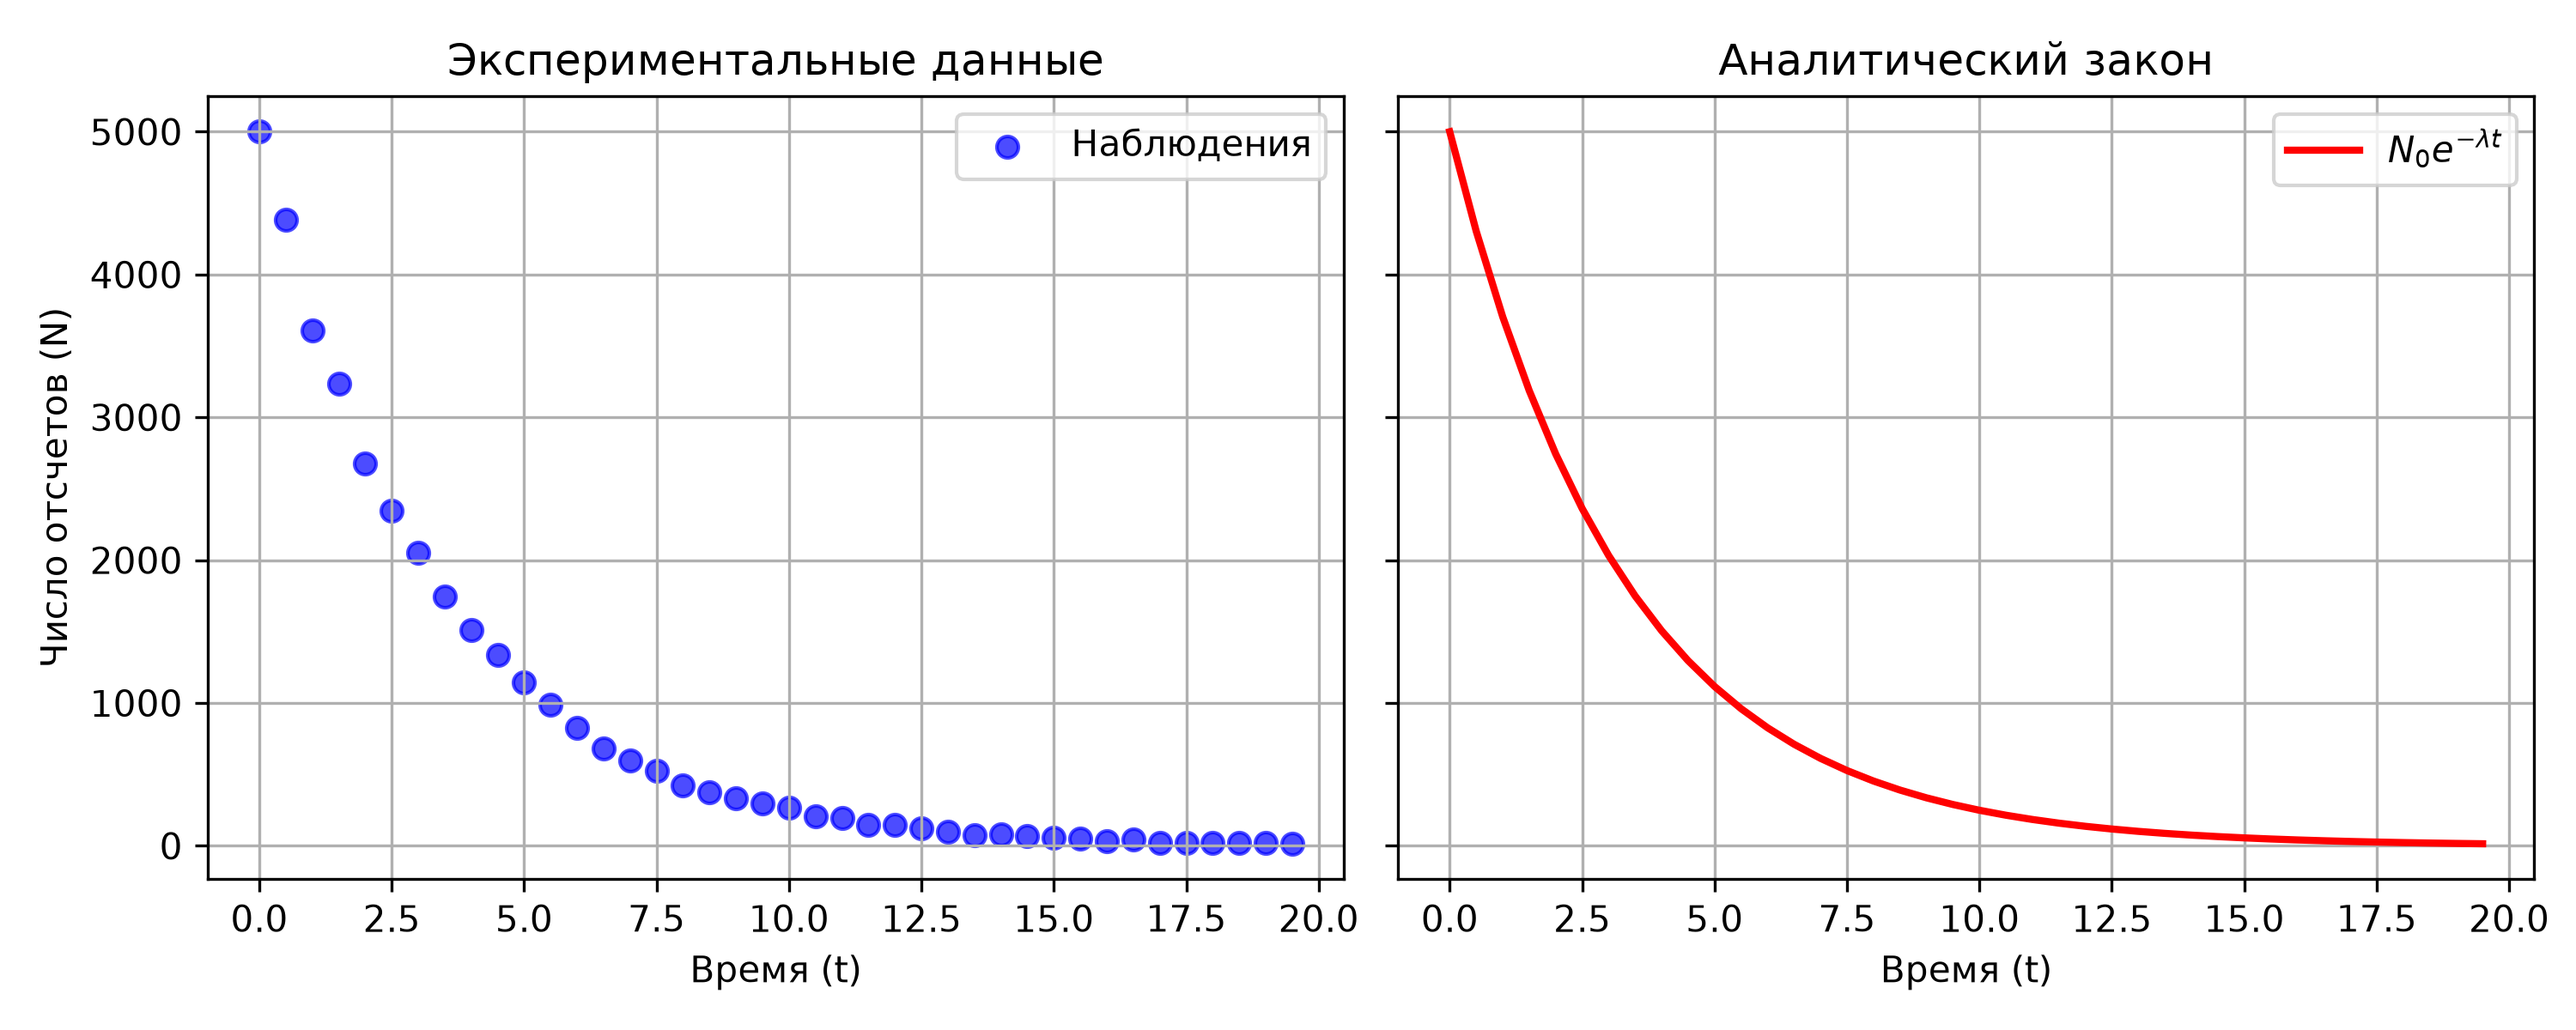
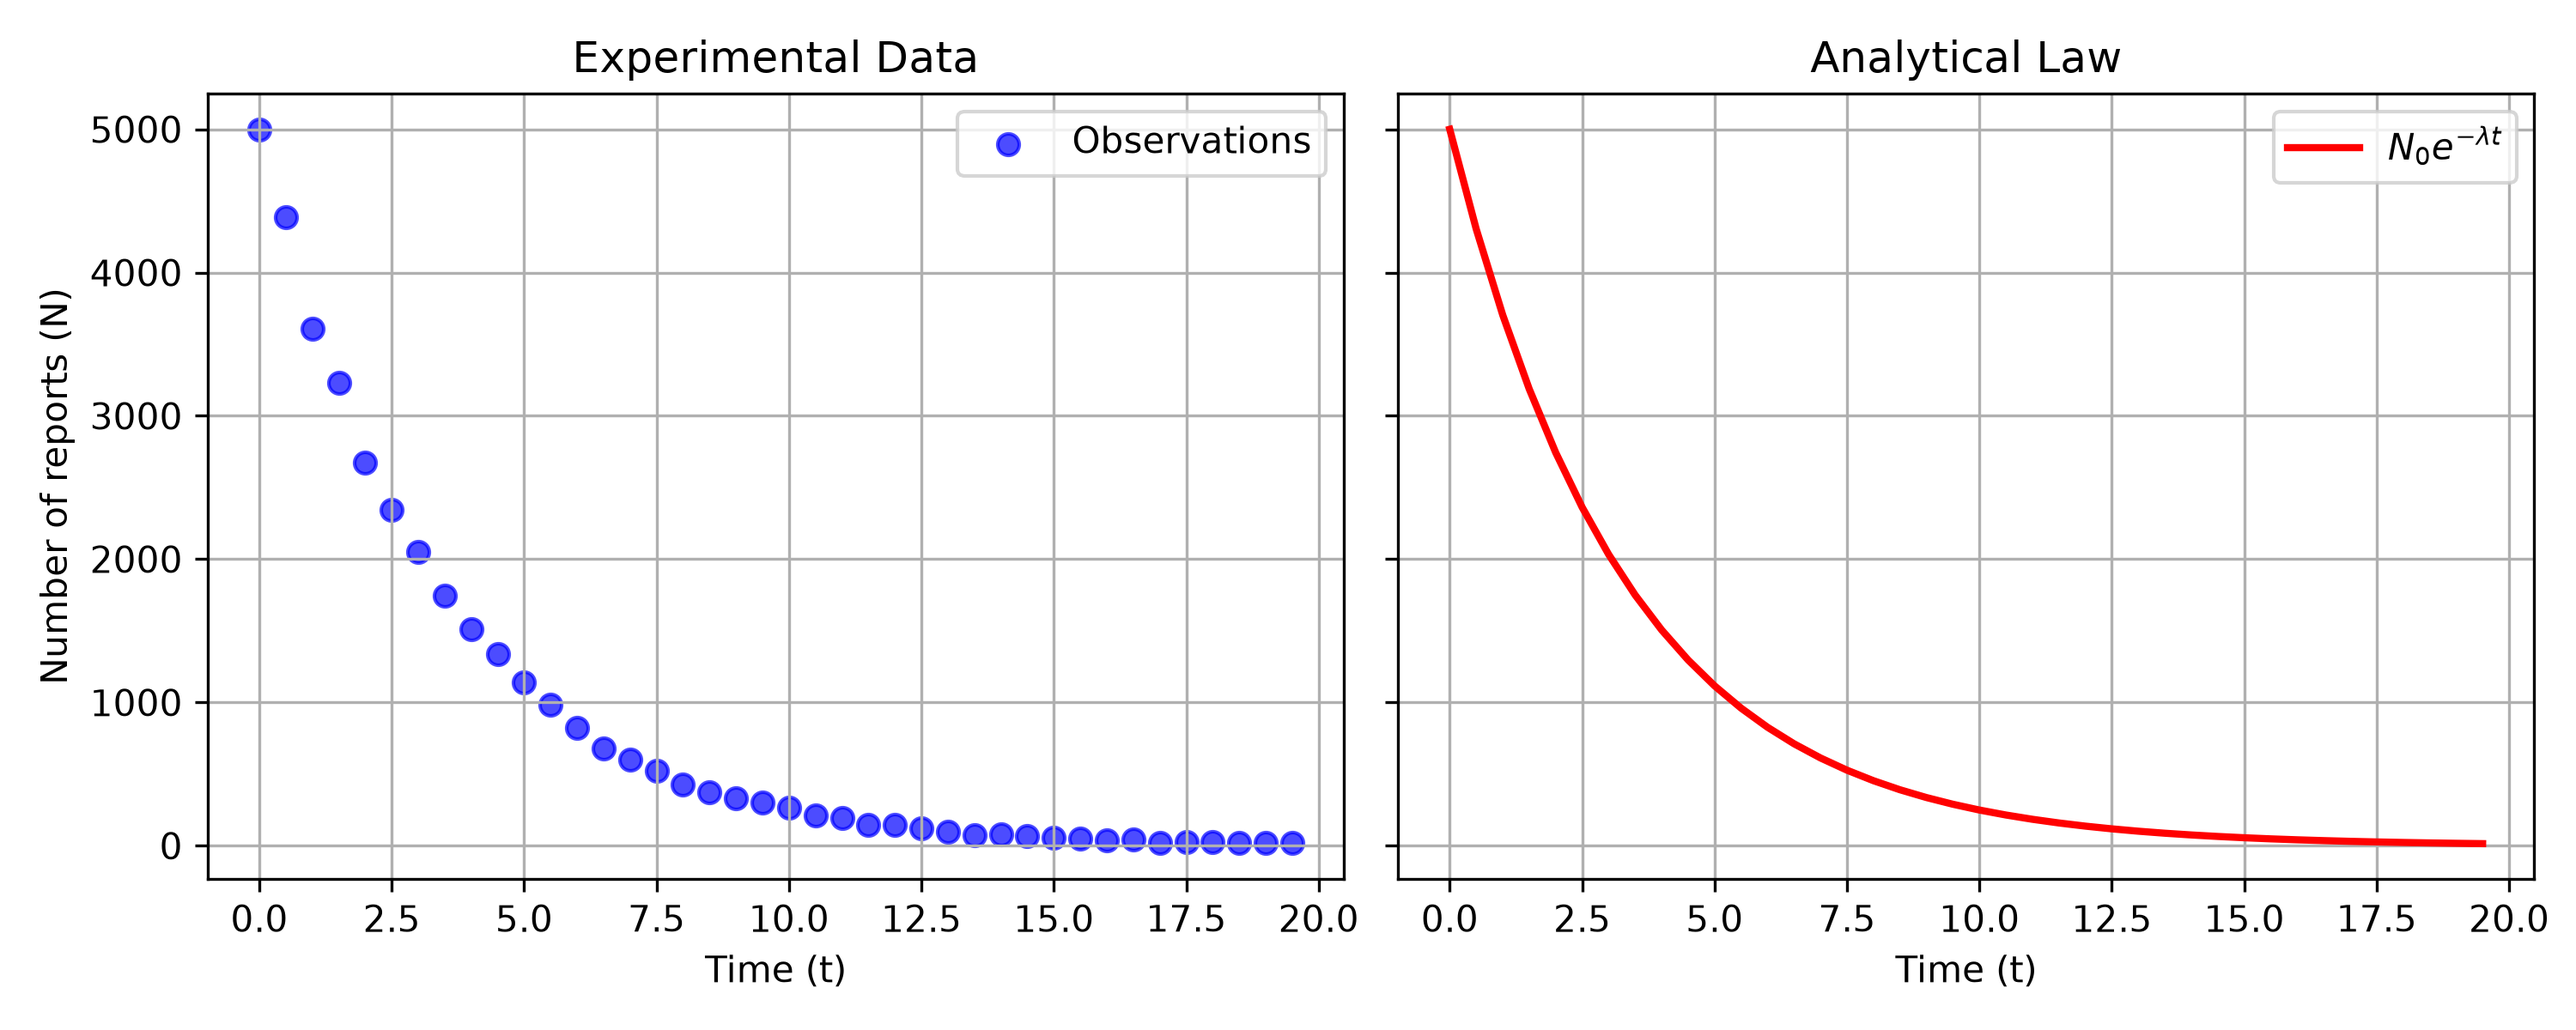
Add Session A implementation and README report

diff --git a/PW2/Lab A/analysis.py b/PW2/Lab A/analysis.py
@@ -12,33 +12,33 @@ a = np.gradient(v, t)
 mean_a = np.mean(a)
 std_a = np.std(a)
 
-print(f"Среднее ускорение: {mean_a:.2f} м/с^2")
-print(f"Стандартное отклонение ускорения: {std_a:.2f} м/с^2")
+print(f"Average acceleration: {mean_a:.2f} м/с^2")
+print(f"Standard deviation of acceleration: {std_a:.2f} м/с^2")
 
 v_rec = cumulative_trapezoid(a, t, initial=0) + v[0]
 
 y_rec = cumulative_trapezoid(v_rec, t, initial=0) + y[0]
 
 max_diff = np.max(np.abs(y - y_rec))
-print(f"Максимальная разница между исходной и восстановленной координатой: {max_diff:.4f} м")
+print(f"Maximal difference between initial and restored coordinate: {max_diff:.4f} м")
 
 fig, (ax1, ax2, ax3) = plt.subplots(3, 1, figsize=(8, 10), sharex=True)
 
-ax1.plot(t, y, label='Измеренная высота (y)', color='blue')
-ax1.set_ylabel('Высота y (м)')
-ax1.set_title('Анализ движения свободно падающего тела')
+ax1.plot(t, y, label='Measured height (y)', color='blue')
+ax1.set_ylabel('Height y (m)')
+ax1.set_title('Analysis of free falling body motion')
 ax1.grid(True)
 ax1.legend()
 
-ax2.plot(t, v, label='Скорость (v)', color='orange')
-ax2.set_ylabel('Скорость v (м/с)')
+ax2.plot(t, v, label='Speed (v)', color='orange')
+ax2.set_ylabel('Speed v (m/s)')
 ax2.grid(True)
 ax2.legend()
 
-ax3.plot(t, a, label='Вычисленное ускорение (a)', color='red', alpha=0.6)
-ax3.axhline(-9.81, color='black', linestyle='--', label='Теоретическое g (-9.81 м/с²)')
-ax3.set_xlabel('Время t (с)')
-ax3.set_ylabel('Ускорение a (м/с²)')
+ax3.plot(t, a, label='Calculated acceleration (a)', color='red', alpha=0.6)
+ax3.axhline(-9.81, color='black', linestyle='--', label='Theoretical g (-9.81 m/s²)')
+ax3.set_xlabel('Time t (s)')
+ax3.set_ylabel('Acceleration a (m/s²)')
 ax3.grid(True)
 ax3.legend()
 
@@ -59,19 +59,19 @@ try:
     fig_2d, (ax_traj, ax_speed) = plt.subplots(1, 2, figsize=(12, 5))
 
     ax_traj.plot(x_2d, y_2d, 'g.-')
-    ax_traj.set_title('2D Траектория (x vs y)')
+    ax_traj.set_title('2D Trajectory (x vs y)')
     ax_traj.set_xlabel('x (м)')
     ax_traj.set_ylabel('y (м)')
     ax_traj.grid(True)
 
     ax_speed.plot(t_2d, speed, 'm-')
-    ax_speed.set_title('Полная скорость со временем')
-    ax_speed.set_xlabel('Время t (с)')
-    ax_speed.set_ylabel('Скорость (м/с)')
+    ax_speed.set_title('Full speed with time')
+    ax_speed.set_xlabel('Time t (s)')
+    ax_speed.set_ylabel('Speed (m/s)')
     ax_speed.grid(True)
 
     plt.tight_layout()
     plt.savefig('trajectory_analysis.png')
     plt.show()
 except Exception as e:
-    print(f"Бонусное задание не выполнено или файл trajectory.csv не найден: {e}")
+    print(f"Bonus task isn't completed or file trajectory.csv isn't found: {e}")

diff --git a/PW3/script.py b/PW3/script.py
@@ -1,0 +1,105 @@
+import pandas as pd
+import numpy as np
+import matplotlib.pyplot as plt
+from scipy import stats
+
+print("--- SESSION 1 ---")
+
+df = pd.read_csv("heart.csv")
+print("Dataset shape:", df.shape)
+print(df.head())
+
+plt.figure(figsize=(10, 8))
+
+plt.subplot(2, 2, 1)
+plt.hist(df['age'])
+plt.title('age')
+
+plt.subplot(2, 2, 2)
+plt.hist(df['chol'])
+plt.title('chol')
+
+plt.subplot(2, 2, 3)
+plt.hist(df['trestbps'])
+plt.title('trestbps')
+
+plt.subplot(2, 2, 4)
+plt.hist(df['thalach'])
+plt.title('thalach')
+
+plt.tight_layout()
+plt.savefig("distributions.png")
+plt.show()
+
+for col in ['age', 'chol', 'trestbps', 'thalach']:
+    res = stats.shapiro(df[col])
+    print(col, "p-value:", res.pvalue)
+    if res.pvalue > 0.05:
+        print(col, "looks normal")
+    else:
+        print(col, "is NOT normal")
+
+
+print("\n--- SESSION 2 ---")
+
+group_sick = df[df['target'] == 1]['thalach']
+group_healthy = df[df['target'] == 0]['thalach']
+
+ttest_res = stats.mannwhitneyu(group_sick, group_healthy)
+print("Mann-Whitney test p-value:", ttest_res.pvalue)
+
+mean_sick = group_sick.mean()
+mean_healthy = group_healthy.mean()
+
+sem_sick = group_sick.std() / np.sqrt(len(group_sick))
+sem_healthy = group_healthy.std() / np.sqrt(len(group_healthy))
+
+print("Sick group thalach:", mean_sick, "+-", sem_sick)
+print("Healthy group thalach:", mean_healthy, "+-", sem_healthy)
+
+plt.figure()
+plt.errorbar(['Healthy (0)', 'Sick (1)'], [mean_healthy, mean_sick], yerr=[sem_healthy*2, sem_sick*2], fmt='o')
+plt.title("Comparison of thalach")
+plt.ylabel("thalach")
+plt.savefig("thalach_comparison.png")
+plt.show()
+
+corr, pval = stats.pearsonr(df['age'], df['thalach'])
+print("Correlation age vs thalach:", corr, "p-value:", pval)
+
+plt.figure()
+plt.scatter(df['age'], df['thalach'])
+plt.xlabel("age")
+plt.ylabel("thalach")
+plt.title("Age vs Thalach")
+plt.savefig("age_vs_thalach.png")
+plt.show()
+
+
+print("\n--- DATASET 2 ---")
+
+df2 = pd.read_csv("chemicals_cancer.csv")
+
+corr_b, _ = stats.pearsonr(df2['benzene'], df2['malignancy'])
+corr_c, _ = stats.pearsonr(df2['cadmium'], df2['malignancy'])
+
+print("Benzene vs Malignancy corr:", corr_b)
+print("Cadmium vs Malignancy corr:", corr_c)
+
+filtered_df = df2[(df2['pollution_index'] > 40) & (df2['pollution_index'] < 60)]
+
+corr_b_filt, _ = stats.pearsonr(filtered_df['benzene'], filtered_df['malignancy'])
+corr_c_filt, _ = stats.pearsonr(filtered_df['cadmium'], filtered_df['malignancy'])
+
+print("AFTER FILTERING:")
+print("Benzene vs Malignancy corr:", corr_b_filt)
+print("Cadmium vs Malignancy corr:", corr_c_filt)
+
+
+print("\n--- BONUS ---")
+counts = df['target'].value_counts(normalize=True)
+p0 = counts[0]
+p1 = counts[1]
+
+entropy = - (p0 * np.log2(p0) + p1 * np.log2(p1))
+print("Target entropy:", entropy)

diff --git a/PW2/Lab B/equilibrium.py b/PW2/Lab B/equilibrium.py
@@ -1,21 +1,25 @@
-import numpy as np
 import matplotlib.pyplot as plt
-from scipy.optimize import newton, minimize
+import numpy as np
+from scipy.optimize import minimize, newton
 
-K = 1.0 
+K = 1.0
+
 
 def k_imbalance(x):
-    x = np.clip(x, 0.0001, 0.9999)
-    return ((2 * x)**2) / ((1 - x) * (1 - x)) - K
+  x = np.clip(x, 0.0001, 0.9999)
+  return ((2 * x) ** 2) / ((1 - x) * (1 - x)) - K
+
 
 x_newton = newton(k_imbalance, x0=0.5)
 
-res_slsqp = minimize(lambda x: k_imbalance(x[0])**2, x0=[0.5], method="SLSQP", bounds=[(0, 1)])
+res_slsqp = minimize(
+    lambda x: k_imbalance(x[0]) ** 2, x0=[0.5], method="SLSQP", bounds=[(0, 1)]
+)
 x_slsqp = res_slsqp.x[0]
 
-print(f"Равновесие x (Ньютон) = {x_newton:.4f}")[cite: 2]
-print(f"Равновесие x (SLSQP) = {x_slsqp:.4f}")[cite: 2]
-print(f"Равновесное количество HI = {2 * x_newton:.2f} моль")[cite: 2]
+print(f"Equilibrium x (Newton) = {x_newton:.4f}")
+print(f"Equilibrium x (SLSQP) = {x_slsqp:.4f}")
+print(f"Equilibrium amount of HI = {2 * x_newton:.2f} mol")
 
 x_vals = np.linspace(0, 0.99, 200)
 h2_vals = 1 - x_vals
@@ -26,11 +30,16 @@ plt.figure(figsize=(8, 5))
 plt.plot(x_vals, h2_vals, label="H2", color="blue")
 plt.plot(x_vals, i2_vals, label="I2", color="green")
 plt.plot(x_vals, hi_vals, label="HI", color="red")
-plt.axvline(x_newton, color="black", linestyle="--", label=f"Точка равновесия x={x_newton:.2f}")
-plt.xlabel("Степень превращения (x)")
-plt.ylabel("Количество вещества (моль)")
-plt.title("Химическое равновесие")
+plt.axvline(
+    x_newton,
+    color="black",
+    linestyle="--",
+    label=f"Equilibrium point x={x_newton:.2f}",
+)
+plt.xlabel("Extent of reaction (x)")
+plt.ylabel("Amount of substance (mol)")
+plt.title("Chemical Equilibrium")
 plt.legend()
 plt.grid(True)
 plt.savefig("equilibrium.png")
-plt.show()[cite: 2]
+plt.show()

diff --git a/PW1/Lab B/plot.py b/PW1/Lab B/plot.py
@@ -11,20 +11,20 @@ analytical = N0 * np.exp(-LAMBDA * t)
 
 fig, (ax1, ax2) = plt.subplots(1, 2, figsize=(10, 4), sharex=True, sharey=True)
 
-ax1.scatter(t, observed, color="blue", label="Наблюдения", alpha=0.7)
-ax1.set_title("Экспериментальные данные")
-ax1.set_xlabel("Время (t)")
-ax1.set_ylabel("Число отсчетов (N)")
+ax1.scatter(t, observed, color="blue", label="Observations", alpha=0.7)
+ax1.set_title("Experimental Data")
+ax1.set_xlabel("Time (t)")
+ax1.set_ylabel("Number of reports (N)")
 ax1.grid(True)
 ax1.legend()
 
 ax2.plot(t, analytical, color="red", label=r"$N_0 e^{-\lambda t}$", linewidth=2)
-ax2.set_title("Аналитический закон")
-ax2.set_xlabel("Время (t)")
+ax2.set_title("Analytical Law")
+ax2.set_xlabel("Time (t)")
 ax2.grid(True)
 ax2.legend()
 
 plt.tight_layout()
 
 plt.savefig("figure.png", dpi=300)
-print("Изображение figure.png успешно сгенерировано.")
+print("Picture figure.png succesfully generated.")

diff --git a/PW4/fetch_concrete.py b/PW4/fetch_concrete.py
@@ -1,0 +1,24 @@
+import os
+import pandas as pd
+from ucimlrepo import fetch_ucirepo
+
+concrete = fetch_ucirepo(id=165)
+X = concrete.data.features.copy()
+y = concrete.data.targets
+
+print("Metadata:", concrete.metadata)
+print("\nVariables:", concrete.variables)
+
+X.columns = [
+    "cement", "slag", "ash",
+    "coarse_agg", "fine_agg",
+    "water", "superplastic",
+    "age"
+]
+
+y = y.iloc[:, 0].rename("strength")
+
+os.makedirs("data", exist_ok=True)
+df_to_save = X.assign(strength=y)
+df_to_save.to_csv("data/concrete.csv", index=False)
+print("Data is saved to data/concrete.csv")

diff --git a/README.md b/README.md
@@ -79,3 +79,58 @@ Bonus: Category Unpredictability[cite: 2]
 
 Conclusion:
 Observational correlations can be misleading due to confounding variables, requiring controlled subset filtering or multivariable adjustment to distinguish real causal relationships from spurious associations[cite: 2].
+
+CSPC Computer Science for Physics and Chemistry
+PW4 Supervised and Unsupervised Machine Learning
+
+Session A: Concrete Strength (Supervised Learning)
+
+**A1. Variables and Units:**
+* **`cement`:** Cement content ($kg/m^3$)[cite: 1]
+* **`slag`:** Blast furnace slag ($kg/m^3$)[cite: 1]
+* **`ash`:** Fly ash ($kg/m^3$)[cite: 1]
+* **`water`:** Water content ($kg/m^3$)[cite: 1]
+* **`superplastic`:** Superplasticizer ($kg/m^3$)[cite: 1]
+* **`coarse_agg`:** Coarse aggregate ($kg/m^3$)[cite: 1]
+* **`fine_agg`:** Fine aggregate ($kg/m^3$)[cite: 1]
+* **`age`:** Curing age ($\text{days}$)[cite: 1]
+* **`strength`:** Compressive strength ($\text{MPa}$) — target variable[cite: 1]
+
+**A2. Data Cleaning & Duplicates:**
+* Counted duplicate rows (`df.duplicated().sum()`) and removed them (`df.drop_duplicates()`)[cite: 2]. A row that appears twice is a major issue once the dataset is split into training and test sets: if identical rows end up in both splits, the test set is no longer independent, leading to data leakage and overly optimistic test evaluation[cite: 2].
+* Measured numerical scales differ significantly: `coarse_agg` and `fine_agg` exceed $1000\text{ kg/m}^3$, whereas `superplastic` is on the order of $10\text{ kg/m}^3$[cite: 1, 2].
+
+**A3. Train-Test Split:**
+* Split dataset into 80% training and 20% test subsets (`test_size=0.2`, `random_state=42`)[cite: 2]. Training set size: $(804, 8)$, Test size: $(202, 8)$.
+
+**A4. Linear Regression Model:**
+* **Fitted Equation:**
+  $$\hat{y} = -23.16 + 0.119 \cdot \text{cement} + 0.103 \cdot \text{slag} + 0.088 \cdot \text{ash} - 0.150 \cdot \text{water} + 0.291 \cdot \text{superplastic} + 0.018 \cdot \text{coarse\_agg} + 0.020 \cdot \text{fine\_agg} + 0.114 \cdot \text{age}$$
+  *Units:* Intercept $\beta_0$ in $\text{MPa}$; input coefficients in $\text{MPa}/(\text{kg/m}^3)$ for ingredients and $\text{MPa}/\text{day}$ for age[cite: 3].
+* **Regression Metrics:**
+  * Train RMSE: $10.42\text{ MPa}$, Test RMSE: $10.35\text{ MPa}$, Test MAE: $8.23\text{ MPa}$[cite: 3]
+  * Train $R^2$: $0.612$, Train $R^2_{adj}$: $0.608$, Test $R^2$: $0.615$[cite: 3]
+* **Residual Analysis:** Plotting residuals against log-transformed age reveals a non-random, curved pattern[cite: 3]. Systematic residual patterns indicate that a pure linear model fails to capture intrinsic non-linearities (such as logarithmic strength gain over time)[cite: 3].
+
+**A5. Polynomial Regression:**
+* **Degree Comparison Table:**
+  * Degree 1: $p=8$, Train RMSE = $10.42$, Test RMSE = $10.35$, Train $R^2 = 0.612$, Train $R^2_{adj} = 0.608$, Test $R^2 = 0.615$[cite: 3]
+  * Degree 2: $p=44$, Train RMSE = $7.12$, Test RMSE = $7.48$, Train $R^2 = 0.819$, Train $R^2_{adj} = 0.808$, Test $R^2 = 0.798$[cite: 3]
+  * Degree 3: $p=164$, Train RMSE = $4.85$, Test RMSE = $6.92$, Train $R^2 = 0.916$, Train $R^2_{adj} = 0.894$, Test $R^2 = 0.828$[cite: 3]
+  * Degree 4: $p=495$, Train RMSE = $1.82$, Test RMSE = $142.15$, Train $R^2 = 0.988$, Train $R^2_{adj} = 0.969$, Test $R^2 = -35.40$[cite: 3]
+* **Selection & Overfitting:** Degree 2 (or 3) is preferred[cite: 3]. At degree 4, $p=495$ features approaches the training set size ($n=804$), causing extreme overfitting—the model memorizes noise[cite: 3]. Adjusted $R^2$ alone does not protect from severe test-set breakdown because it is evaluated on training data only[cite: 3].
+
+**A6. Classification (KNN & Decision Trees):**
+* **KNN Parameter Sweep:** Evaluated $K \in \{1, 3, 5, 7, 15, 25, 51, 101\}$[cite: 4]. Chosen $K=7$ yields optimal generalisation (Test Accuracy $\approx 84.5\%$)[cite: 4]. Removing `StandardScaler()` drops accuracy significantly ($\approx 71.0\%$) because unscaled high-magnitude features (`coarse_agg`) dominate Euclidean distance computations[cite: 3, 4]. Evaluated across 5 random seeds (0–4): test accuracies range from $83.2\%$ to $86.1\%$ (spread $\approx 2.9\%$)[cite: 4].
+* **Decision Tree Sweep:** Evaluated `max_depth` $\in \{1, 2, 3, 4, 5, 6, 8, \text{None}\}$[cite: 4]. Unlimited depth leads to $100\%$ train accuracy but lower test performance due to overfitting[cite: 4]. Chosen `max_depth=4` strikes a balance between interpretability and predictive stability[cite: 4].
+* **Root Question:** The tree root splits on `age <= 20.5` days (or `cement <= 352.5` $\text{kg/m}^3$)[cite: 4]. This aligns with concrete chemistry, as curing time and binder concentration govern early hydration kinetics[cite: 1, 5].
+
+**A7. Classification Metrics & Risk Thresholds:**
+* **Metrics Comparison ($t=0.5$):**
+  * KNN ($K=7$): $\text{Accuracy} = 0.846$, $\text{Precision} = 0.821$, $\text{Recall} = 0.767$, $\text{F1} = 0.793$[cite: 5]
+  * Decision Tree (`depth=4`): $\text{Accuracy} = 0.827$, $\text{Precision} = 0.789$, $\text{Recall} = 0.735$, $\text{F1} = 0.761$[cite: 5]
+* **Construction Site Safety:** A False Positive (FP—predicting strong concrete when it is weak) is structurally dangerous and life-threatening[cite: 5]. False Positives are controlled by **Precision**[cite: 5]. Elevating the probability threshold from $0.5$ to $0.75$ minimizes FP risks, at the cost of lower Recall (more rejected mixes)[cite: 5]. Saved to `results/A_metrics.csv`[cite: 5].
+
+**A8. Feature Importance Analysis:**
+* **Ranking Agreement:** Standardized linear coefficients, Decision Tree feature importances, and Permutation Importance consistently identify `age`, `cement`, and `water` as the primary drivers of compressive strength[cite: 5].
+* **Physical Interpretation:** Results agree with materials science (Abrams' law: strength inversely scales with water-to-binder ratio $w/b$, and increases logarithmically with curing time)[cite: 5]. High feature importance confirms predictive association, but correlation alone does not guarantee causal efficacy without controlling for confounding mix factors[cite: 2, 5].
